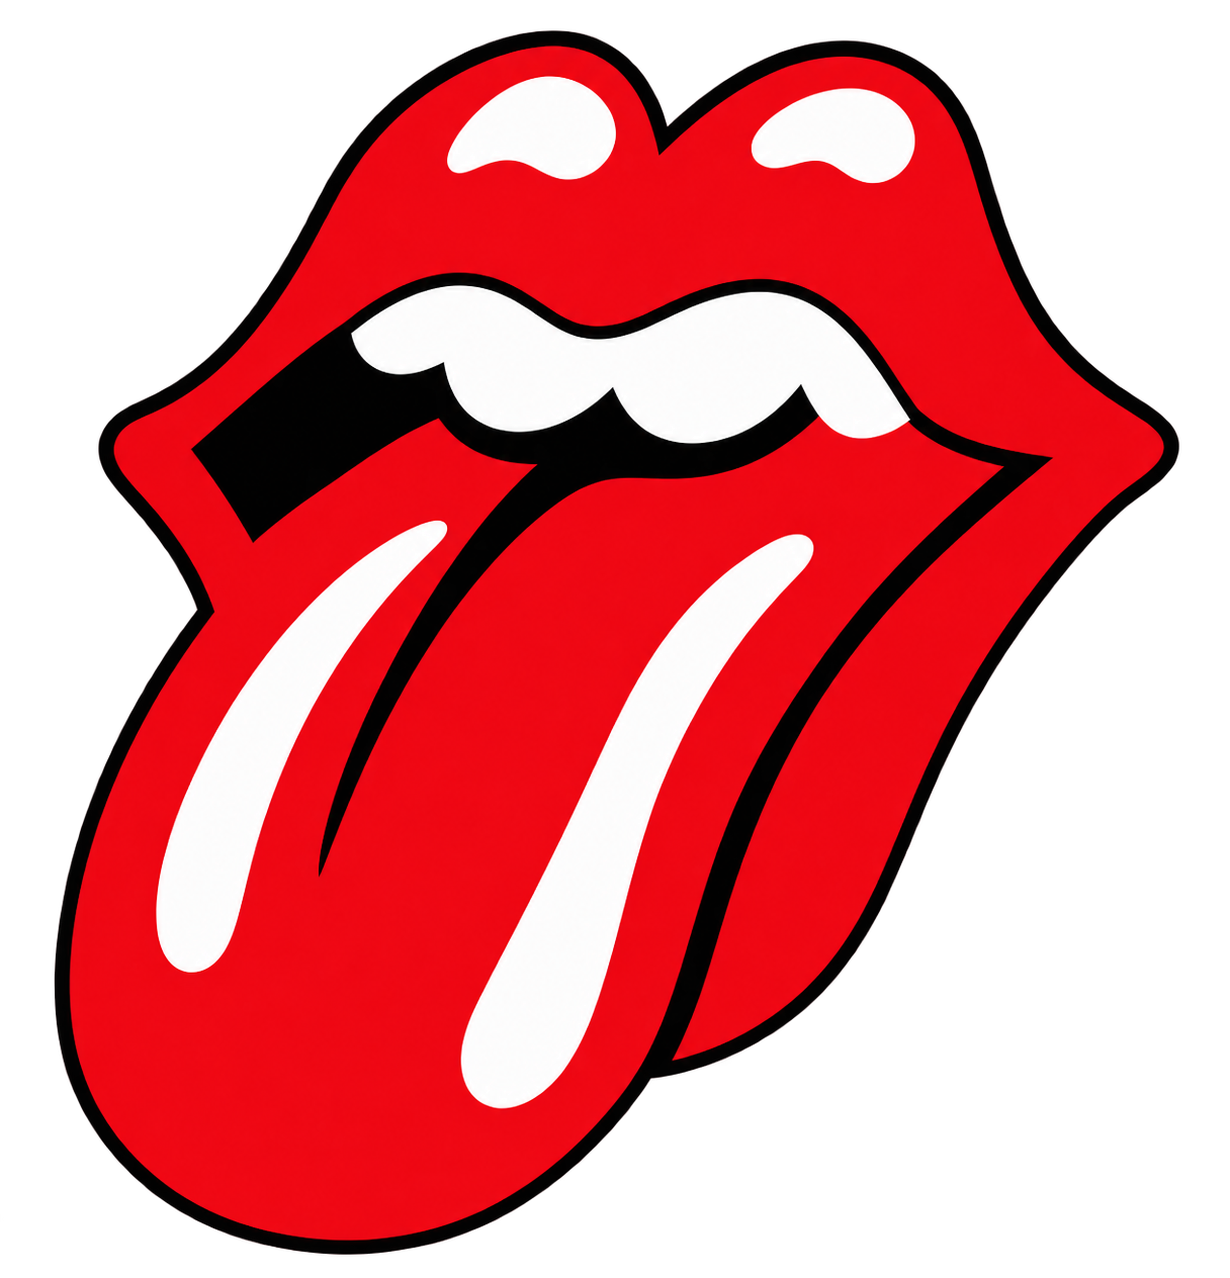
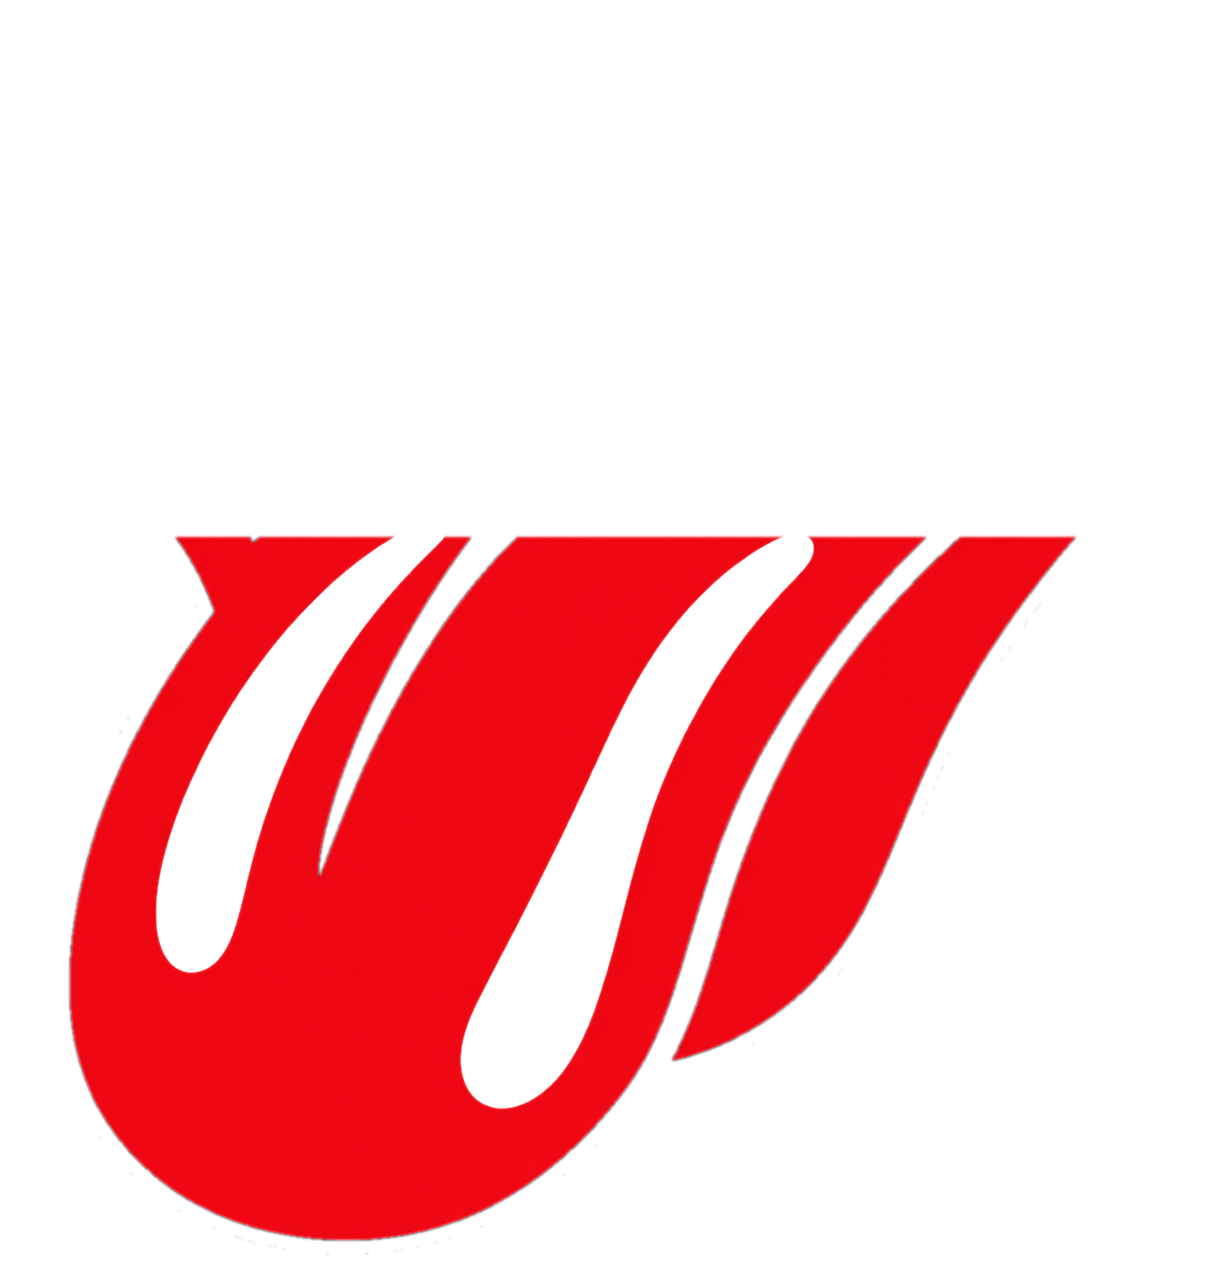
Efecto 2.5D por capas

Changed region(s): [[0.0309, 0.0, 0.9577, 0.946], [0.1545, 0.946, 0.4016, 1.0], [0.7415, 0.5188, 0.8033, 0.6408]]

diff --git a/index.html b/index.html
@@ -7,13 +7,13 @@
     content="width=device-width, initial-scale=1.0"
   >
 
+  <title>Prueba MindAR 2.5D</title>
+
   <!-- A-Frame -->
   <script src="https://aframe.io/releases/1.4.2/aframe.min.js"></script>
 
   <!-- MindAR -->
   <script src="https://cdn.jsdelivr.net/npm/mind-ar@1.2.5/dist/mindar-image-aframe.prod.js"></script>
-
-  <title>Prueba MindAR 3D</title>
 </head>
 
 <body style="margin: 0; overflow: hidden;">
@@ -24,32 +24,140 @@
     renderer="colorManagement: true, physicallyCorrectLights"
     vr-mode-ui="enabled: false"
     device-orientation-permission-ui="enabled: false"
+    embedded
   >
 
-    <!-- ARCHIVO DEL MODELO 3D -->
+    <!-- =========================
+         IMÁGENES
+    ========================== -->
+
     <a-assets>
-      <a-asset-item
-        id="modelo3d"
-        src="./1777859904783.glb">
-      </a-asset-item>
+
+      <img
+        id="boca"
+        src="./boca.png"
+        crossorigin="anonymous"
+      >
+
+      <img
+        id="borde"
+        src="./borde.png"
+        crossorigin="anonymous"
+      >
+
+      <img
+        id="dientes"
+        src="./dientes.png"
+        crossorigin="anonymous"
+      >
+
+      <img
+        id="labios"
+        src="./labios.png"
+        crossorigin="anonymous"
+      >
+
+      <img
+        id="lengua"
+        src="./LENGUA.png"
+        crossorigin="anonymous"
+      >
+
     </a-assets>
 
-    <!-- CÁMARA -->
+
+    <!-- =========================
+         CÁMARA
+    ========================== -->
+
     <a-camera
       position="0 0 0"
-      look-controls="enabled: false">
-    </a-camera>
+      look-controls="enabled: false"
+    ></a-camera>
 
-    <!-- IMAGEN QUE MINDAR RECONOCE -->
+
+    <!-- =========================
+         TARGET
+    ========================== -->
+
     <a-entity mindar-image-target="targetIndex: 0">
 
-      <!-- MODELO 3D -->
-      <a-gltf-model
-        src="#modelo3d"
+
+      <!-- CAPA 1 - BOCA / FONDO -->
+
+      <a-image
+        src="#boca"
         position="0 0 0"
-        rotation="90 0 0"
-        scale="0.5 0.5 0.5">
-      </a-gltf-model>
+        width="1"
+        height="1"
+        material="
+          transparent: true;
+          alphaTest: 0.01;
+          side: double
+        "
+      ></a-image>
+
+
+      <!-- CAPA 2 - BORDE -->
+
+      <a-image
+        src="#borde"
+        position="0 0 0.015"
+        width="1"
+        height="1"
+        material="
+          transparent: true;
+          alphaTest: 0.01;
+          side: double
+        "
+      ></a-image>
+
+
+      <!-- CAPA 3 - DIENTES -->
+
+      <a-image
+        src="#dientes"
+        position="0 0 0.030"
+        width="1"
+        height="1"
+        material="
+          transparent: true;
+          alphaTest: 0.01;
+          side: double
+        "
+      ></a-image>
+
+
+      <!-- CAPA 4 - LABIOS -->
+
+      <a-image
+        src="#labios"
+        position="0 0 0.045"
+        width="1"
+        height="1"
+        material="
+          transparent: true;
+          alphaTest: 0.01;
+          side: double
+        "
+      ></a-image>
+
+
+      <!-- CAPA 5 - LENGUA
+           Es la que más sobresale -->
+
+      <a-image
+        src="#lengua"
+        position="0 -0.01 0.075"
+        width="1"
+        height="1"
+        material="
+          transparent: true;
+          alphaTest: 0.01;
+          side: double
+        "
+      ></a-image>
+
 
     </a-entity>
 
